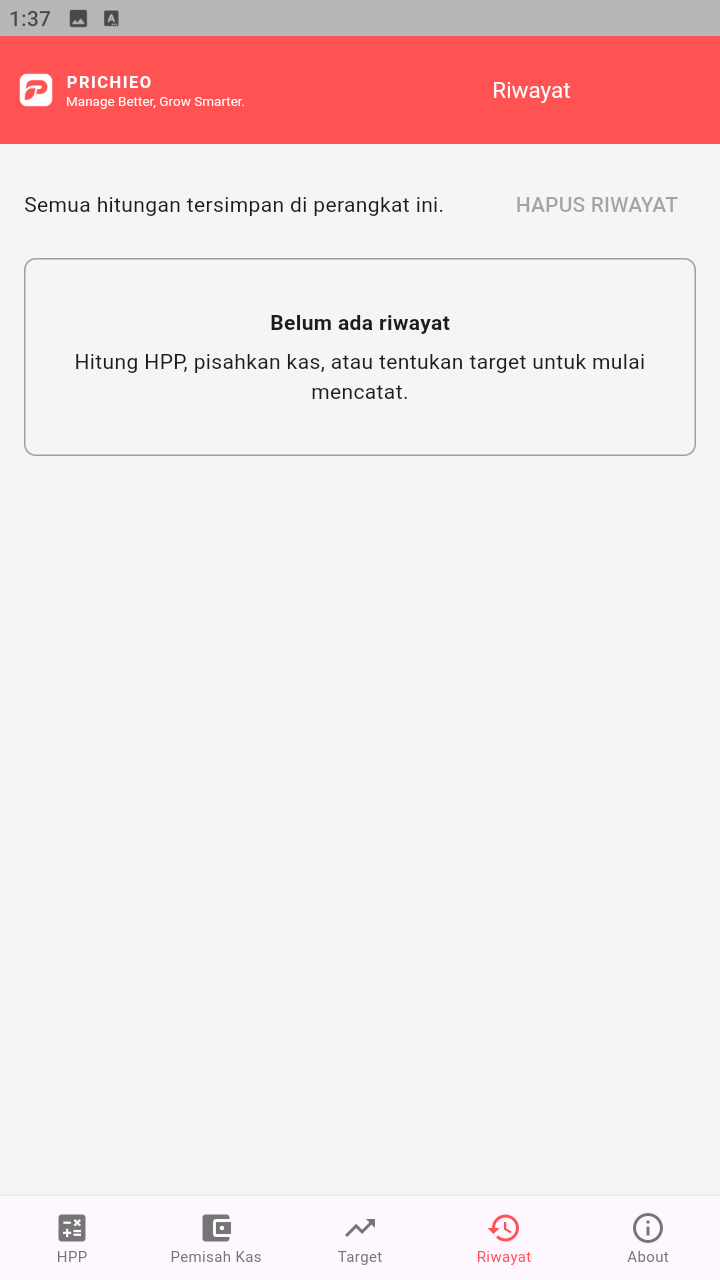
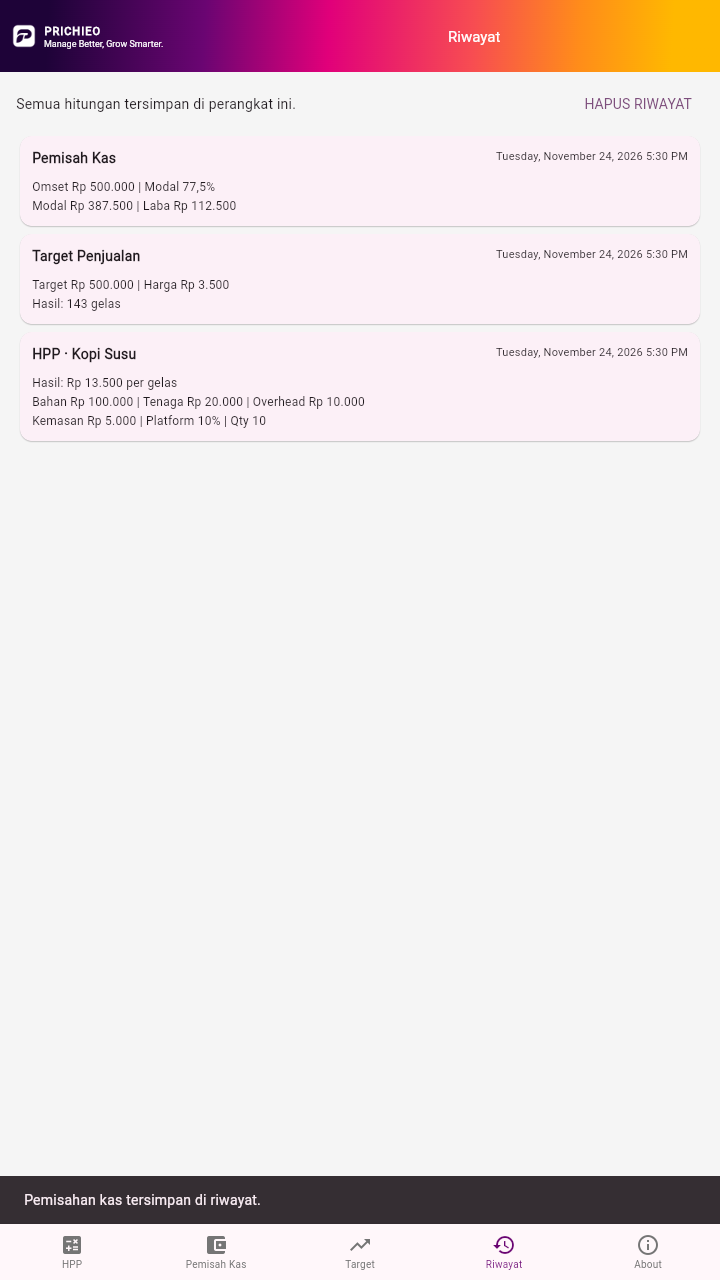
Perbarui screenshot README ke tema GTA6 v1.2.0

diff --git a/screenshots/gallery.html b/screenshots/gallery.html
@@ -18,7 +18,7 @@
 <body>
   <header>
     <h1>PRICHIEO</h1>
-    <p>Smart Tools for Small Business &middot; Tampilan aplikasi dari build Flutter di BlueStacks</p>
+    <p>Smart Tools for Small Business &middot; Tampilan aplikasi versi 1.2.0 dari build web Flutter dengan tema GTA6</p>
   </header>
   <div class="grid">
     <figure><img src="01-hpp.png" alt="Kalkulator HPP"><figcaption>1. Kalkulator HPP</figcaption></figure>

diff --git a/screenshots/README.md b/screenshots/README.md
@@ -1,6 +1,6 @@
 # Screenshot aplikasi
 
-Lima tampilan utama PRICHIEO, diambil dari build Flutter yang berjalan di BlueStacks. Format PNG, ukuran 720x1280 portrait.
+Lima tampilan utama PRICHIEO versi 1.2.0, diambil dari build web Flutter dengan tema GTA6 aktif. Format PNG, ukuran 720x1280 portrait.
 
 | File | Tampilan |
 |---|---|
